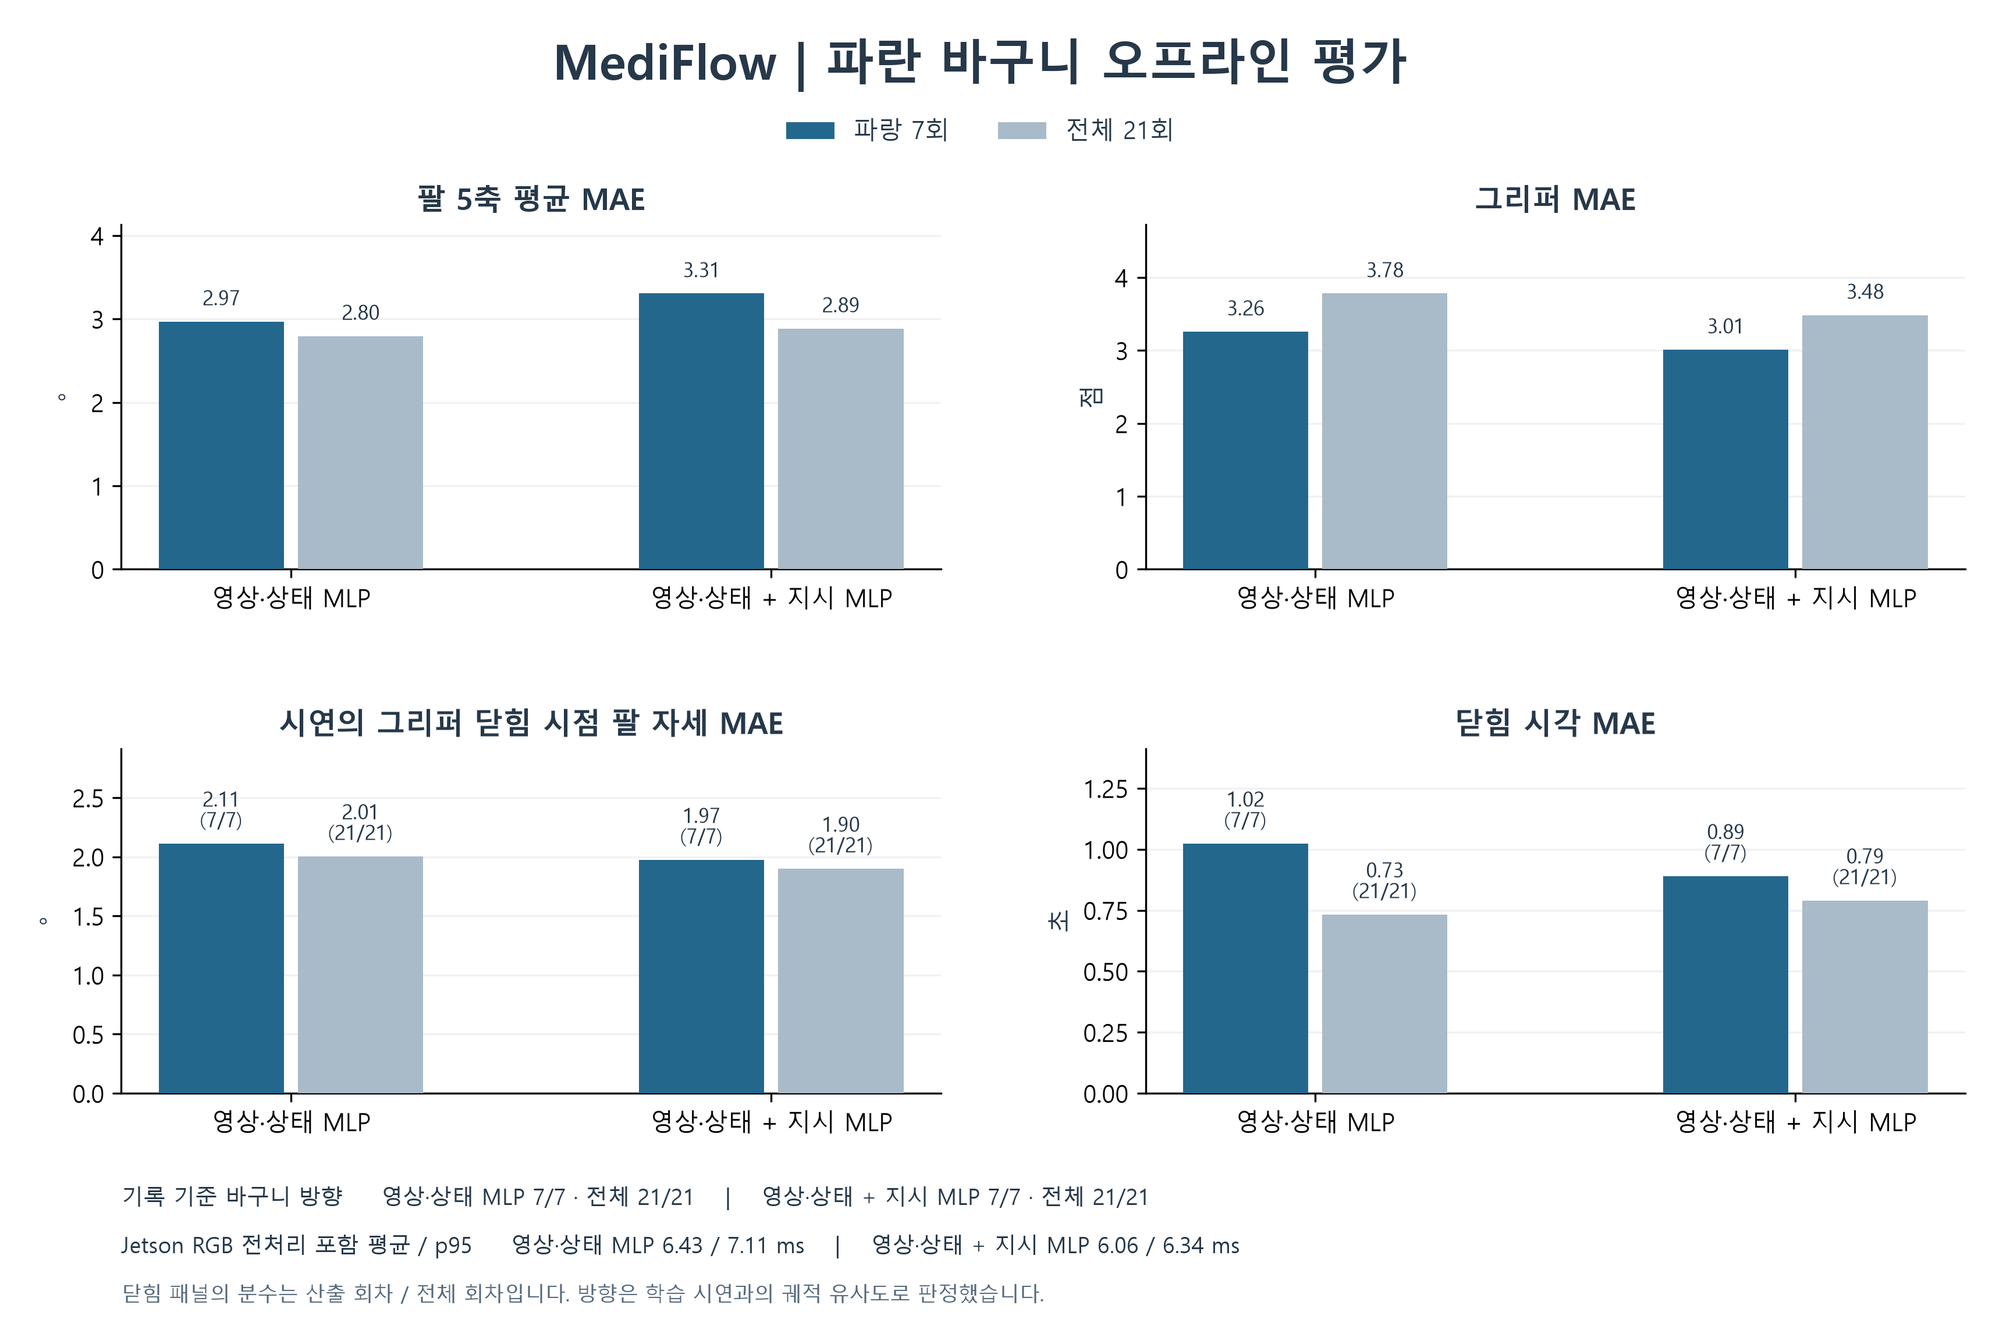
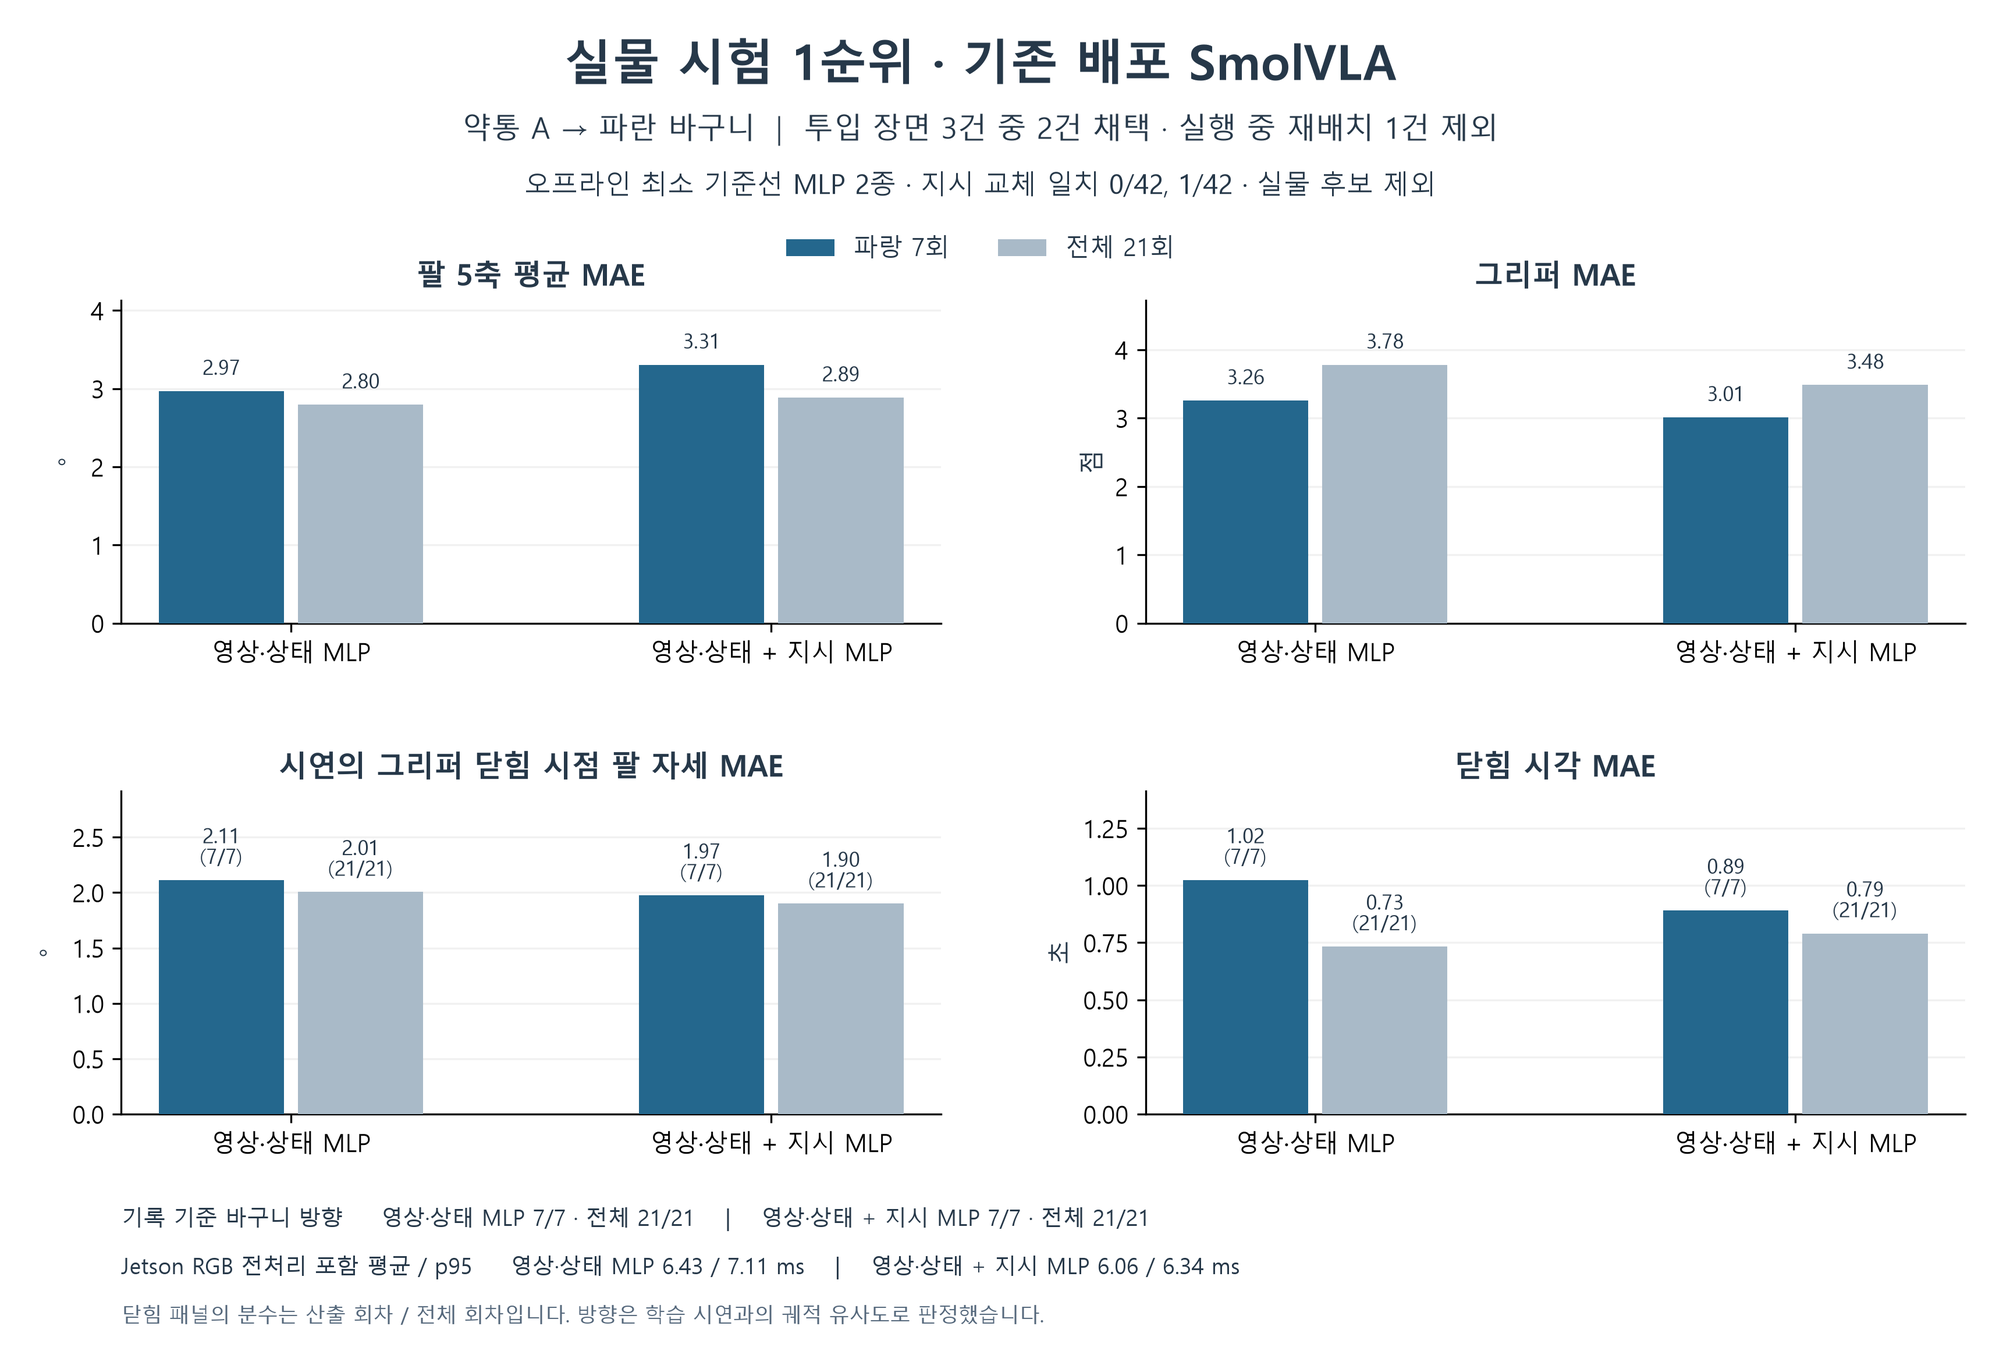
Select deployed SmolVLA for physical trials and exclude the assisted run

diff --git a/lerobot_training/model_compare/figures.py b/lerobot_training/model_compare/figures.py
@@ -158,7 +158,7 @@ def render_summary(evaluations, report):
     if not compared:
         return
     fig, panels = plt.subplots(2, 2, figsize=(12, 7.9))
-    plt.subplots_adjust(left=.09, right=.97, top=.83, bottom=.20, wspace=.25, hspace=.52)
+    plt.subplots_adjust(left=.09, right=.97, top=.79, bottom=.20, wspace=.25, hspace=.52)
     panel_specs = (
         ("arm5_mae_deg", "팔 5축 평균 MAE", "°", None),
         ("gripper_mae_points", "그리퍼 MAE", "점", None),
@@ -186,9 +186,13 @@ def render_summary(evaluations, report):
             ax.tick_params(axis="x", labelrotation=22)
         ax.grid(axis="y", alpha=.17)
         ax.margins(y=.38 if denominator else .25)
-    fig.suptitle("MediFlow | 파란 바구니 오프라인 평가", fontsize=20, fontweight="bold", y=.965)
+    fig.suptitle("실물 시험 1순위 · 기존 배포 SmolVLA", fontsize=20, fontweight="bold", y=.98)
+    fig.text(.5, .907, "약통 A → 파란 바구니  |  투입 장면 3건 중 2건 채택 · 실행 중 재배치 1건 제외",
+             ha="center", fontsize=12)
+    fig.text(.5, .867, "오프라인 최소 기준선 MLP 2종 · 지시 교체 일치 0/42, 1/42 · 실물 후보 제외",
+             ha="center", fontsize=11)
     handles, legend = panels[0,0].get_legend_handles_labels()
-    fig.legend(handles, legend, loc="upper center", bbox_to_anchor=(.5,.923), frameon=False, ncols=2)
+    fig.legend(handles, legend, loc="upper center", bbox_to_anchor=(.5,.853), frameon=False, ncols=2)
     basket = "    |    ".join(f"{label} {blue['correct']}/{blue['denominator_all']} · 전체 "
                             f"{whole['correct']}/{whole['denominator_all']}"
                             for _, label, blue, whole in compared)

diff --git a/reports/model_compare/EVIDENCE_AUDIT.md b/reports/model_compare/EVIDENCE_AUDIT.md
@@ -1,6 +1,6 @@
 # 파란 바구니 투입 3건의 보존 자료 검증
 
-2026-11-20의 서로 다른 세 실행에서 사선 카메라 프레임을 직접 판독했다. 세 실행 모두 약통이 그리퍼에서 분리되어 왼쪽 파란 바구니에 남아 있다. 15:30 실행은 앞선 실패 뒤 사람이 약통을 재배치한 회차다. 이 세 장면으로 무개입 연속 성공 횟수나 전체 성공률을 산출할 수 없다.
+2026-11-20의 세 실행 모두 약통이 그리퍼에서 분리되어 왼쪽 파란 바구니에 남았다. 실물 1순위인 기존 배포 SmolVLA의 근거로 **14:40과 15:54 두 실행을 채택**했다. **15:30은 실행 도중 사람 재배치로 제외**했다. 세 실행은 투입 장면을 사후에 골라 본 사례로, 성공률의 분모를 제공하지 않는다.
 
 | 실행 ID | READY 기준 초와 직접 확인한 장면 | 자료 한계 |
 |---|---|---|
@@ -10,8 +10,40 @@
 
 ## 원본 대조 방법
 
+2026-11-23에 Jetson의 `runs/20261120_<시각>/steps.jsonl`과 `summary.json`을 다시 읽었다. 세 summary의 실제 필드는 `"mode": "legacy"`, `"run_label": "VLA"`, `"assist_grasp": false`, `"speed": 0.4`, READY의 `"duration_s": 180.0`이다. 각 steps에는 모델 로딩 시작·완료 이벤트가 있고, summary에는 추론 시간이 여러 회 기록되어 있다.
+
+| 실행 · 판정 | steps.jsonl 첫 이벤트 원문 | 추론 시간 표본 | 실행 당시 Jetson HEAD (reflog) | 당시 설정의 model_sha256 |
+|---|---|---:|---|---|
[3 lines of base64/hex data omitted]
+
+**15:30의 개입은 실행 시작 이후다.** READY 원문 시각은 `"unix": 1795156311.543228`이다. 사선 원본 `grasp_21/ceiling_oblique/00034_+000.458.jpg`와 `00046_+001.657.jpg`에서 손가락이 약통 뚜껑에 닿는다. 이벤트의 프레임 시각에서 카메라 지연을 뺀 시점은 READY +52.813초와 +54.013초다. 첫 장면은 모델 시작 이벤트로부터 117.284초 후다. 앞선 낙하와 이후 투입 사이에 재배치가 있었다.
+
+### 실행 명령의 출처
+
+실행별로 보존된 전체 셸 명령행이나 argv는 찾지 못했다. 다음은 각 summary의 모드와 옵션으로 복원한 동등 명령이다. 15:30과 15:54에서는 보존된 시연 래퍼 `demo.sh`의 호출 행도 대조했다.
+
+| 실행 | 동등 명령 · 사용자 입력 원문 미확보 |
+|---|---|
+| 14:40 | `bash ~/so101_vla/live/run.sh --mode legacy --live --execute --operator-present --reject-stale-home --speed 0.4 --duration 180` |
+| 15:30 | `bash ~/so101_vla/live/run.sh --mode legacy --live --execute --operator-present --reject-stale-home --precollect --speed 0.4 --duration 180` |
+| 15:54 | `bash ~/so101_vla/live/run.sh --mode legacy --live --execute --operator-present --reject-stale-home --precollect --speed 0.4 --duration 180 --smooth-reversals` |
+
+보존된 래퍼 호출 행 원문과 세 커밋의 `git show <HEAD>:live/config.yaml`에 공통인 설정 행은 다음과 같다.
+
+```bash
+bash "$HOME/so101_vla/live/run.sh" --mode legacy --live --execute --operator-present --reject-stale-home --precollect --speed 0.4 --duration 180 "$@"
+```
+
+```json
[1 lines of base64/hex data omitted]
+```
+
+세 실행 모두 VLA 정책 모드는 원본 summary에서 확정했다. SHA는 당시 HEAD의 설정값까지 확정했다. 실행별 로드 파일의 SHA와 작업 트리 상태를 직접 출력한 행은 확보되지 않아 당시 메모리에 적재된 바이트까지 독립적으로 확정할 수 없다.
+
+### 보존 영상·로그 위치
+
 보존 폴더는 작업공간 기준 `.local/success_plots/<시각>/`이다. 각 `meta.json`의 `frames`가 READY 기준 초, 파일명, 영상 출처를 연결한다. 위 표 순서대로 확인한 파일은 144002의 f065/f071/f086, 153047의 f050/f211/f212/f209, 155459의 f091/f076/f089이다(모두 JPG). [공개 타임라인과 원본 프레임명](../model_figures/success_runs/README.md)과 [현장 판독 기록](../../docs/smolvla/WORK_LOG.md)을 함께 참조할 수 있다.
 
 세 실행에 각각 `trace.npz`와 `meta.json`이 남아 있다. 전송 샘플 수는 시간순 4,460 / 7,906 / 3,088이다. 첫 회차는 `MediFlow_coord_20261119/first_live_144002/first_success_originals.tar.gz` 안의 원본 summary와 steps에서 4,460건을 각각 대조했다. 다른 두 회차의 수치는 보존 메타데이터 기준이다. 첫 회차와 마지막 회차에는 각각 `first_live_pick_and_place.mp4`, `MediFlow_VLA_155459_pick_and_place.mp4`가 있고, 가운데 회차는 이벤트 JPEG와 관제 캡처로 판독했다. 작업공간에서 이름이 정확히 `EVIDENCE_3RUNS`인 별도 자료는 발견하지 못했다. 이번 검증은 로컬에 보존된 자료를 사용했다.
-
[1 lines of base64/hex data omitted]

diff --git a/reports/model_compare/COMPARE.md b/reports/model_compare/COMPARE.md
@@ -2,7 +2,9 @@
 
 ### 파란 바구니 1개 작업 · 2026-11-23
 
-현재 완료된 최소 기준선 중 **영상·상태 + 바구니 지시 MLP**를 파란 바구니 입회 시험의 잠정 후보로 선정했다. 파랑에서 두 모델 모두 투입 방향을 7/7 맞혔고, 지시 MLP가 닫힘 시각·자세와 그리퍼 MAE 세 항목에서 더 낮은 오차를 보였다. 새 SmolVLA와 공식 정책들의 재학습 결과가 확보되면 같은 기준으로 후보를 다시 선정한다.
+**약통 A → 파란 바구니 실물 시험 1순위는 기존 배포 SmolVLA(b84b15c7…)다.** 실제 영상에서 투입 3건을 확인했고, 실행 중 사람이 약통을 다시 놓은 15:30 건을 제외해 2건을 후보 근거로 채택했다. [실행별 원문과 프레임](EVIDENCE_AUDIT.md)
+
+MLP 2종은 오프라인 최소 기준선으로만 사용한다. 같은 저장 장면·관절 상태에서 지시만 바꾸면 새 바구니 방향과의 일치는 기본 0/42, 지시 MLP 1/42였다. 원래 지시가 붙은 파랑 7회에서의 일치 7/7은 녹화 장면이나 상태에 의존한 행동 재현으로도 설명된다. 이 시험으로 영상 암기만을 단일 원인으로 확정하거나 폐루프 방향 선택을 보장할 수 없어 두 모델 모두 실물 후보에서 제외했다. [지시 교체 시험](prompt_check.json)
 
 | 평가 범위 | 모델 | 팔 5축 평균 MAE | 그리퍼 MAE | 닫힘 시각 MAE | 닫힘 자세 MAE | 닫힘 매칭 | 바구니 방향 일치 |
 |---|---|---:|---:|---:|---:|---:|---:|
@@ -29,7 +31,7 @@
 | X-VLA | 미측정 / 7 | 미측정 / 21 | 대기 |
 | π0.5 | 미측정 / 7 | 미측정 / 21 | 자원 확인 대기 |
 
-기존 배포 SmolVLA(b84b15c7…)는 평가 21회도 학습에 사용한 참고 모델이다. 보존 영상에서 확인된 파란 바구니 투입은 3건으로, 그중 1건에서 앞선 실패 뒤 사람이 약통을 재배치했다. [세 실행 증거 검증](EVIDENCE_AUDIT.md)
+기존 배포 SmolVLA는 평가 21회도 학습에 사용해 독립 오프라인 순위에서는 제외했다. 실물 시험 우선순위의 근거는 기존 배포본의 현장 영상이다.
 
 Jetson Orin에서 저장한 3대 카메라 RGB의 전처리부터 CPU 행동 반환까지 다시 측정했다. 16개 행동 청크당 평균/p95는 기본 MLP **6.43/7.11 ms**, 지시 MLP **6.06/6.34 ms**였다. 모델마다 400회 측정했고 카메라 촬영과 영상 파일 해독은 계측 범위 밖이다. [원시 측정](jetson_rgb_latency.json)
 
@@ -39,7 +41,7 @@ Jetson Orin에서 저장한 3대 카메라 RGB의 전처리부터 CPU 행동 반
 
 ### 11월 22일 기준선 측정 기록
 
-**파란 바구니 입회 시험의 예비 후보는 영상·상태 + 바구니 지시 MLP다.** 학습을 마친 두 소형 정책 중 닫힘 시점의 팔 자세 오차가 1.90°로 작았고, Jetson 추론 p95는 1.23 ms였다. 반면 팔 전체 구간 오차와 닫힘 시각 오차는 지시 없는 정책이 더 작았다. 지시를 바꾸면서 색을 선택하는 시연에는 근거가 약하다. 같은 기록 영상·상태에서 지시 색만 바꾸면 새 바구니 방향을 맞힌 경우는 42개 중 1개였다.
+기본 MLP와 지시 MLP는 최소 기준선이다. 기존 시험에서 지시 MLP의 전체 21회 닫힘 자세 오차는 1.90°였고, RGB 축소 이후부터 계측한 Jetson 추론 p95는 1.23 ms였다.
 
 이 비교에서 학습과 평가를 마친 정책은 CPU용 소형 MLP 2종이다. 요청한 SmolVLA·ACT·Diffusion·π0.5·X-VLA의 정식 GPU 학습은 미실행이다. 운영 체크포인트와 이전 빨강·초록 체크포인트는 비교에서 제외했다. 로봇 쓰기 0회. [실행 상태](STATUS.md)
 
@@ -138,7 +140,7 @@ SmolVLA 계획은 원래 설정에서 batch 4, seed 101, 50-action chunk, denois
 - 평가에는 시연이 만든 상태와 영상이 주어진다. 투입 방향 21/21은 오프라인 궤적 지표다. 이 두 정책의 실물 시험 횟수는 0회이며 실물 성공률은 미측정이다.
 - 지시 조건은 관측을 동일하게 둔 문제에서 1/42만 새 색 방향을 따랐다. 다음 수집 시 같은 초기 구도에서 빨강·초록·파랑 지시를 바꾼 짝지은 시연을 확보하면 이 효과를 직접 검증할 수 있다.
 - 정식 GPU 비교에는 접근 가능한 학습 GPU와 동일한 두 분리본이 필요하다. ACT·Diffusion·SmolVLA부터 자원에 맞춰 순차 학습하고, 대형 모델은 BF16과 VRAM 실측 후 진행한다. Jetson은 추론 전용으로 유지한다.
-- 예비 후보는 운영 실행기에 통합하지 않았다. 실제 시험에 앞서 3대 카메라 전처리를 포함한 종단 지연과 명령 범위를 저장 영상으로 확인한 뒤 운영자 입회하에 진행한다.
+- 실물 시험은 운영자가 입회할 때 기존 배포 SmolVLA를 우선 사용한다. MLP의 표와 그래프는 저장 관측을 사용한 최소 기준선 결과다.
 
 ### RTX 3060 큐 재현
 

diff --git a/reports/model_compare/STATUS.md b/reports/model_compare/STATUS.md
@@ -1,5 +1,28 @@
 # 모델별 학습 상태
 
+### 2026-11-23 · 직접 SSH 재시도와 실물 후보 정정
+
+실물 시험 1순위는 기존 배포 SmolVLA다. 투입 3건 중 실행 도중 재배치한 15:30을 제외해 2건을 채택했다. 두 MLP는 최소 기준선이다. [실행별 근거](EVIDENCE_AUDIT.md)
+
+현재 세션에서 직접 연결했다. 일반 SSH는 `ssh -o BatchMode=yes -o ConnectTimeout=7 -o StrictHostKeyChecking=yes chosun@chosun hostname`에서 종료 코드 255와 `ssh: Could not resolve hostname chosun:`를 반환했다. `chosun.local`과 tailnet 정규 이름도 이름 해석에 실패했다. Tailscale의 온라인 피어 목록에는 Jetson만 있었다.
+
+```text
+$ ssh -o BatchMode=yes -o ConnectTimeout=7 -o StrictHostKeyChecking=yes chosun@chosun hostname
+ssh: Could not resolve hostname chosun: \276\313\267\301\301\370 \310\243\275\272\306\256\260\241 \276\370\275\300\264\317\264\331.
+$ tailscale ssh chosun@chosun hostname
+Dial("chosun", 22): unexpected HTTP response: 502 Bad Gateway, resolve failure: lookup chosun: no such host
+
+Connection closed by UNKNOWN port 65535
+$ tailscale ping --c 1 --timeout 5s chosun
+error looking up IP of "chosun": lookup chosun: no such host
+```
+
+| 이번 직접 점검 | PID·프로세스명 | VRAM·GPU 사용률 | 조치 |
+|---|---|---|---|
+| chosun RTX 3060 | 미조회 | 미측정 | 프로세스 종료 0건 |
+
+직접 연결 가능한 주소나 Tailscale 피어가 확보되면 GPU를 재조회한다. SmolVLA 배치 4의 2스텝 시험은 미시작으로, 20,000스텝 학습 시작 시각과 ETA는 미산정이다. 아래의 여유 2,878 MiB·사용률 57%는 이전 세션의 장치 전체 측정값이다.
+
 ### 2026-11-23 · RTX 3060 및 파랑 7회 우선 평가
 
 - 승인된 작업은 약통 A의 파란 바구니 투입이다. seed 101의 기존 3색 학습 116회(53,709프레임), 평가 21회(9,842프레임)를 유지한다. 파랑 평가 회차는 97, 98, 103, 105, 109, 121, 136이고 3,163프레임이다.

diff --git a/docs/smolvla/CURRENT_STATUS.md b/docs/smolvla/CURRENT_STATUS.md
@@ -2,7 +2,7 @@
 
 ### 11월 23일 · 파란 바구니 후보 선정
 
-파랑 평가 7회에서 지시 MLP의 닫힘 시각 MAE는 0.890초, 닫힘 자세 MAE는 1.974°, 그리퍼 MAE는 3.011점이었다. 같은 세 지표가 기본 MLP보다 낮아 완료된 두 최소 기준선 중 잠정 후보로 정했다. 두 모델의 파랑 방향 일치는 각각 7/7이다. RTX 3060에서 CUDA 동작을 확인했고, 새 비교 모델의 116회 재학습은 미실행이다. 과거 배포 모델의 파란 바구니 투입 3건 중 한 실행에 재배치가 관찰됐다. [비교 보고서](../../reports/model_compare/COMPARE.md) · [실물 근거](../../reports/model_compare/EVIDENCE_AUDIT.md)
+파랑 평가 7회에서 지시 MLP의 닫힘 시각 MAE는 0.890초, 닫힘 자세 MAE는 1.974°, 그리퍼 MAE는 3.011점이었다. 두 MLP는 지시 교체가 0/42·1/42여서 최소 기준선으로만 사용한다. 실물 시험 1순위는 기존 배포 SmolVLA다. 두 모델의 파랑 방향 일치는 각각 7/7이다. RTX 3060에서 CUDA 동작을 확인했고, 새 비교 모델의 116회 재학습은 미실행이다. 배포 모델 투입 3건 중 실행 중 재배치가 있었던 15:30 건을 제외해 2건을 채택했다. [비교 보고서](../../reports/model_compare/COMPARE.md) · [실물 근거](../../reports/model_compare/EVIDENCE_AUDIT.md)
 
 ### 11월 22일 · 모델 비교용 회차 분할
 

diff --git a/docs/smolvla/WORK_LOG.md b/docs/smolvla/WORK_LOG.md
@@ -1,5 +1,9 @@
 # SmolVLA 누적 작업 일지
 
+## 2026-11-23 · 실물 후보 정정 및 GPU 직접 접속
+
+세 실행의 Jetson 원본 READY·시작 이벤트와 커밋별 설정을 다시 읽었다. 15:30 실행은 READY 후 +52.813초·+54.013초에 사람이 약통에 닿아 집계에서 제외했다. 기존 배포 SmolVLA를 실물 시험 1순위로, MLP 두 종을 최소 기준선으로 기록한다. 직접 SSH와 Tailscale에서 chosun 이름을 찾지 못해 PID 조회·종료와 새 GPU 학습은 미실행이다. 로봇 쓰기 0회. [증거](../../reports/model_compare/EVIDENCE_AUDIT.md) · [학습 상태](../../reports/model_compare/STATUS.md)
+
 ## 2026-11-23 · 실험 브랜치 파랑 7회 및 실물 기록 대조
 
 3색 학습 116회를 유지해 파랑 7회와 전체 21회를 따로 집계했다. 파랑 닫힘 시각·자세·그리퍼 오차에서 지시 MLP가 기본 MLP보다 작았다. RTX 3060 전체 12,288 MiB·여유 2,878 MiB·사용률 57%는 당시 원격 터미널에서 측정한 값이다. 새 학습의 PID·스텝은 미확인이다. 보존 프레임에서 기존 배포 모델의 투입 3건과 그중 1건의 사람 재배치를 확인했다. 이번 실험의 모터 쓰기 0회. [상태](../../reports/model_compare/STATUS.md) · [실물 검증](../../reports/model_compare/EVIDENCE_AUDIT.md)
